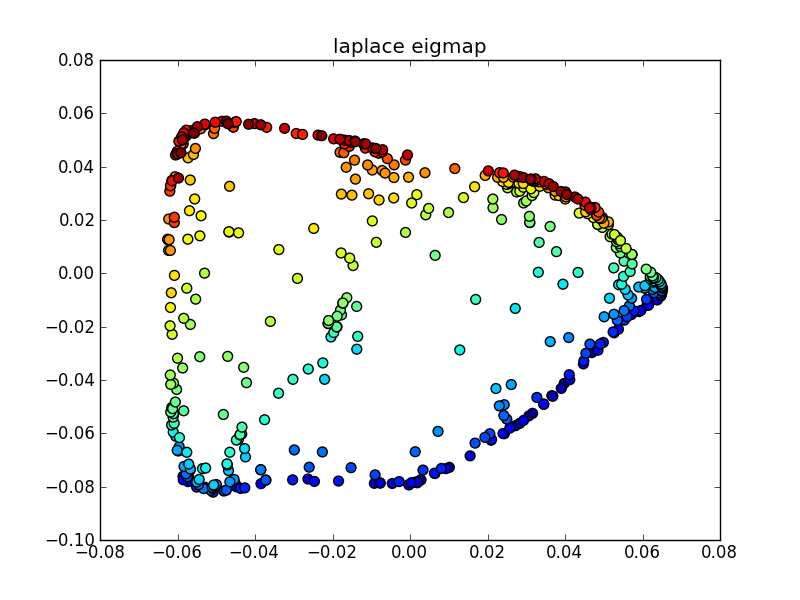
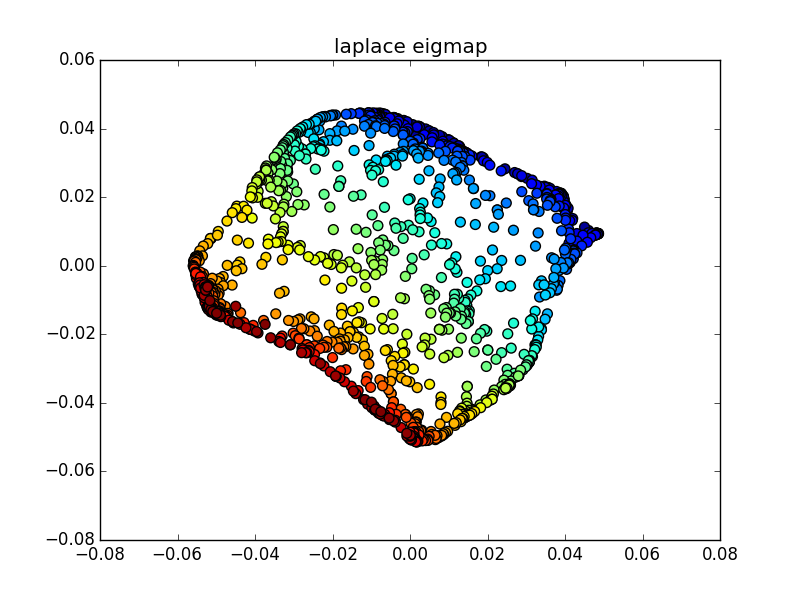
add more data into eigmap&llp

diff --git a/LaplaceEigmap&LLP/LaplacianEigenmap.py b/LaplaceEigmap&LLP/LaplacianEigenmap.py
@@ -11,8 +11,8 @@ import matplotlib.pyplot as plt
 from mpl_toolkits.mplot3d import Axes3D
 
 location = os.path.split(os.path.realpath(__file__))[0] + '\\'
-#data_name = 'scroll_data.mat'
-data_name = 'small_scroll_data.mat'
+data_name = 'scroll_data.mat'
+#data_name = 'small_scroll_data.mat'
 origin_fig = 'scroll.png'
 eigmap_fig = 'eigmap.png'
 llp_fig = 'llp.png'
@@ -97,7 +97,7 @@ def get_LLP_eigmap(Lsym, data, k):
     return T
 
 def LLP_low_dim_data(data, LLP_eigmap):
-    low_dim_data = np.mat(data) * LLP_eigmap 
+    low_dim_data = np.mat(data) * LLP_eigmap  
     return np.array(low_dim_data)
 
 def plot_data_2d(data, title = '', save_fig = ''):
@@ -113,9 +113,10 @@ def plot_data_2d(data, title = '', save_fig = ''):
     plt.show()
 
 def plot_data_3d(data, title = '', save_fig = ''):
-    fig = plt.figure()   
-    plt.title(title)
+    fig = plt.figure()       
     ax = fig.add_subplot(111, projection='3d')
+    ax.set_title(title)
+
     T = np.arange(0, 2 * np.pi,  2 * np.pi / len(data))
     ax.scatter(data[:, 0], data[:, 1], data[:, 2], s = 50, c = T)
 
